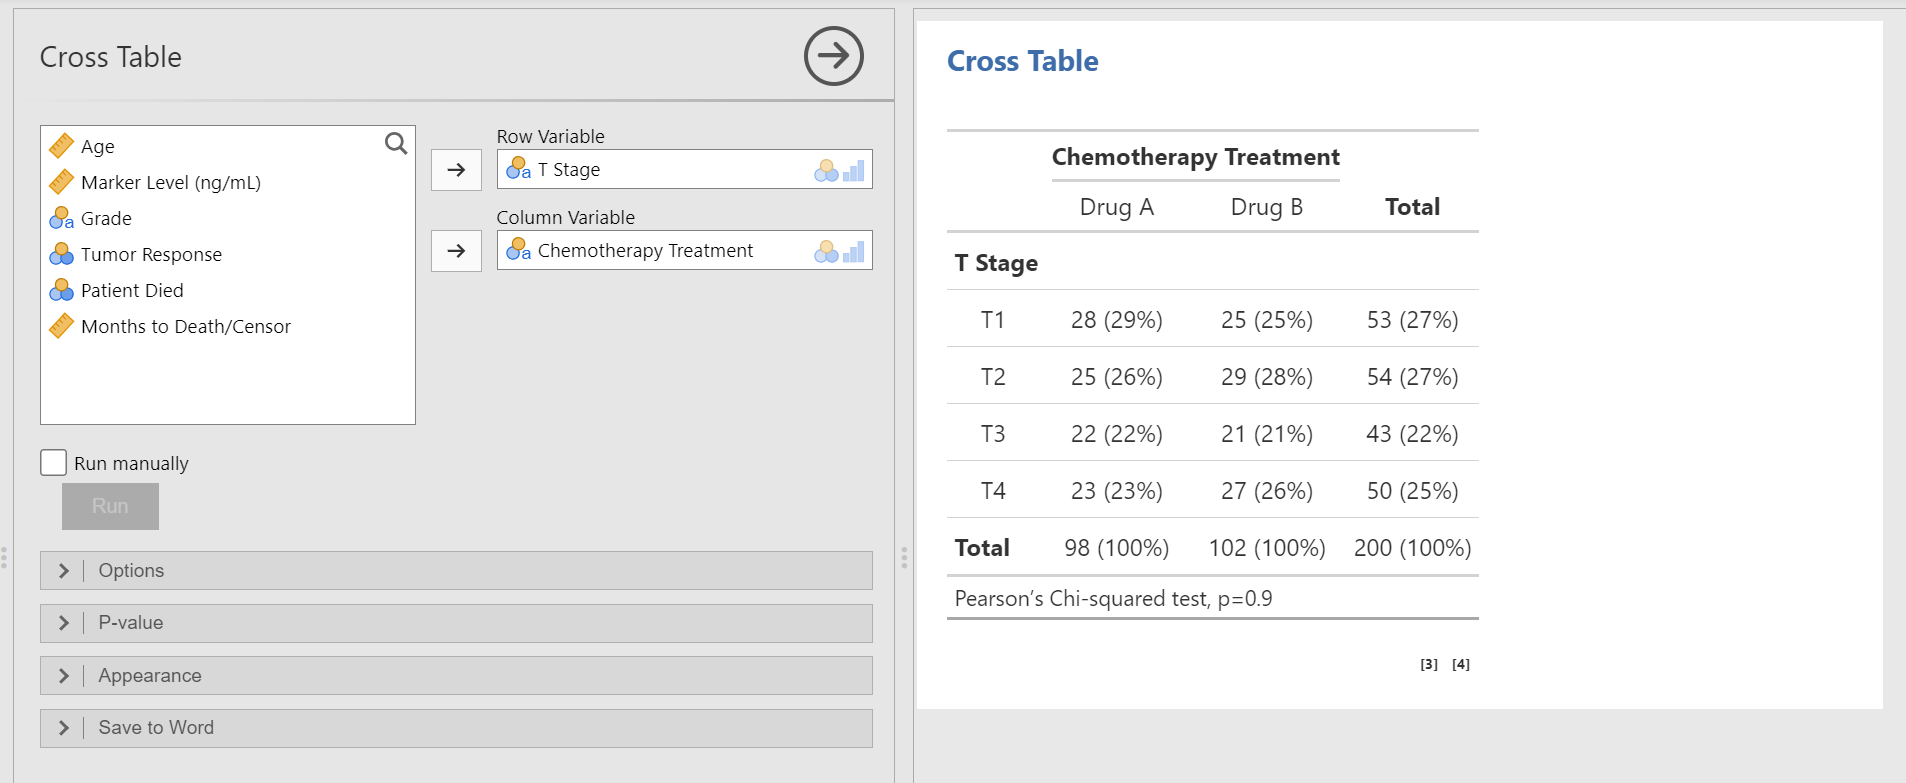
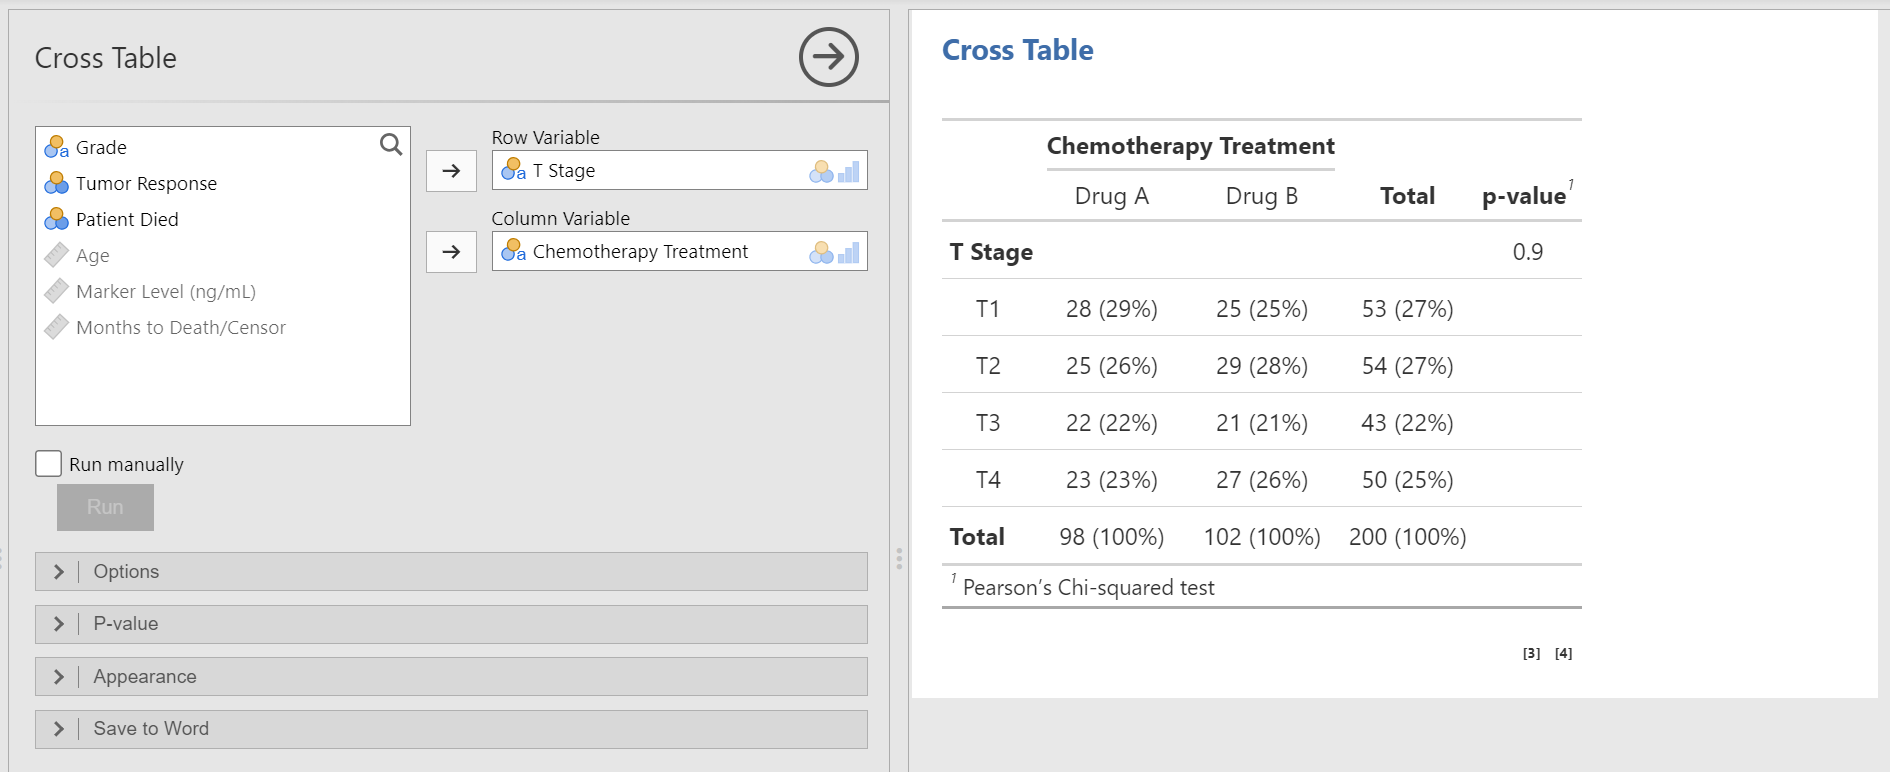
docs: polish wording and update cross-table screenshot in blog draft

diff --git a/SummaryTables/blog-post.md b/SummaryTables/blog-post.md
@@ -1,6 +1,6 @@
 # SummaryTables Module: Publication-Ready Summary Tables for jamovi
 
-We are excited to introduce **SummaryTables**, a new module available in the jamovi library designed to provide an elegant and flexible way to create publication-ready analytical and summary tables.
+We are excited to introduce **SummaryTables**, a new module available in the jamovi library designed to provide an easy, flexible, and elegant way to create publication-ready analytical and summary tables.
 
 Powered by the `gtsummary` package in R, this module bridges the gap between running your analyses and publishing them. Instead of piecing together multiple separate outputs into a final manuscript table, SummaryTables generates beautifully formatted, publication-ready tables directly within jamovi. By making complex analyses simple and accessible, it saves you valuable time and reduces the risk of transcription errors. It summarizes data sets, regression models, and more, using sensible defaults while offering highly customizable capabilities.
 
@@ -40,16 +40,18 @@ Fit multivariable linear, logistic, or Cox regression models.
 
 ### 7. Univariable Regression
 
-Run separate univariable linear, logistic, or Cox regression models for each predictor.
+Run separate univariable linear, logistic, or Cox regression models for each predictor, seamlessly combined into a single, clean table.
 ![Univariable Regression](https://raw.githubusercontent.com/NourEdinDarwish/jamovi-assets/main/SummaryTables/univariable-regression.png)
 
 ## Additional Features
 
 ### Save to Word
-Bypass the formatting headaches of copying tables into Word. Save any table directly to a natively formatted Word (.docx) document, ensuring perfect layout and styling for your manuscript.
+
+Bypass the formatting headaches that come with copying and pasting jamovi tables into Word. Save your results directly to a natively formatted Word (.docx) document, preserving the same styling done in jamovi and ensuring a perfect layout for your manuscript.
 ![Word Table](https://raw.githubusercontent.com/NourEdinDarwish/jamovi-assets/main/SummaryTables/word-table.png)
 
 ### Journal Formatting & Translations
+
 Choose from 16 supported languages and apply pre-built formatting themes tailored for major journals (JAMA, The Lancet, NEJM, QJE).
 
 ## Help and Documentation